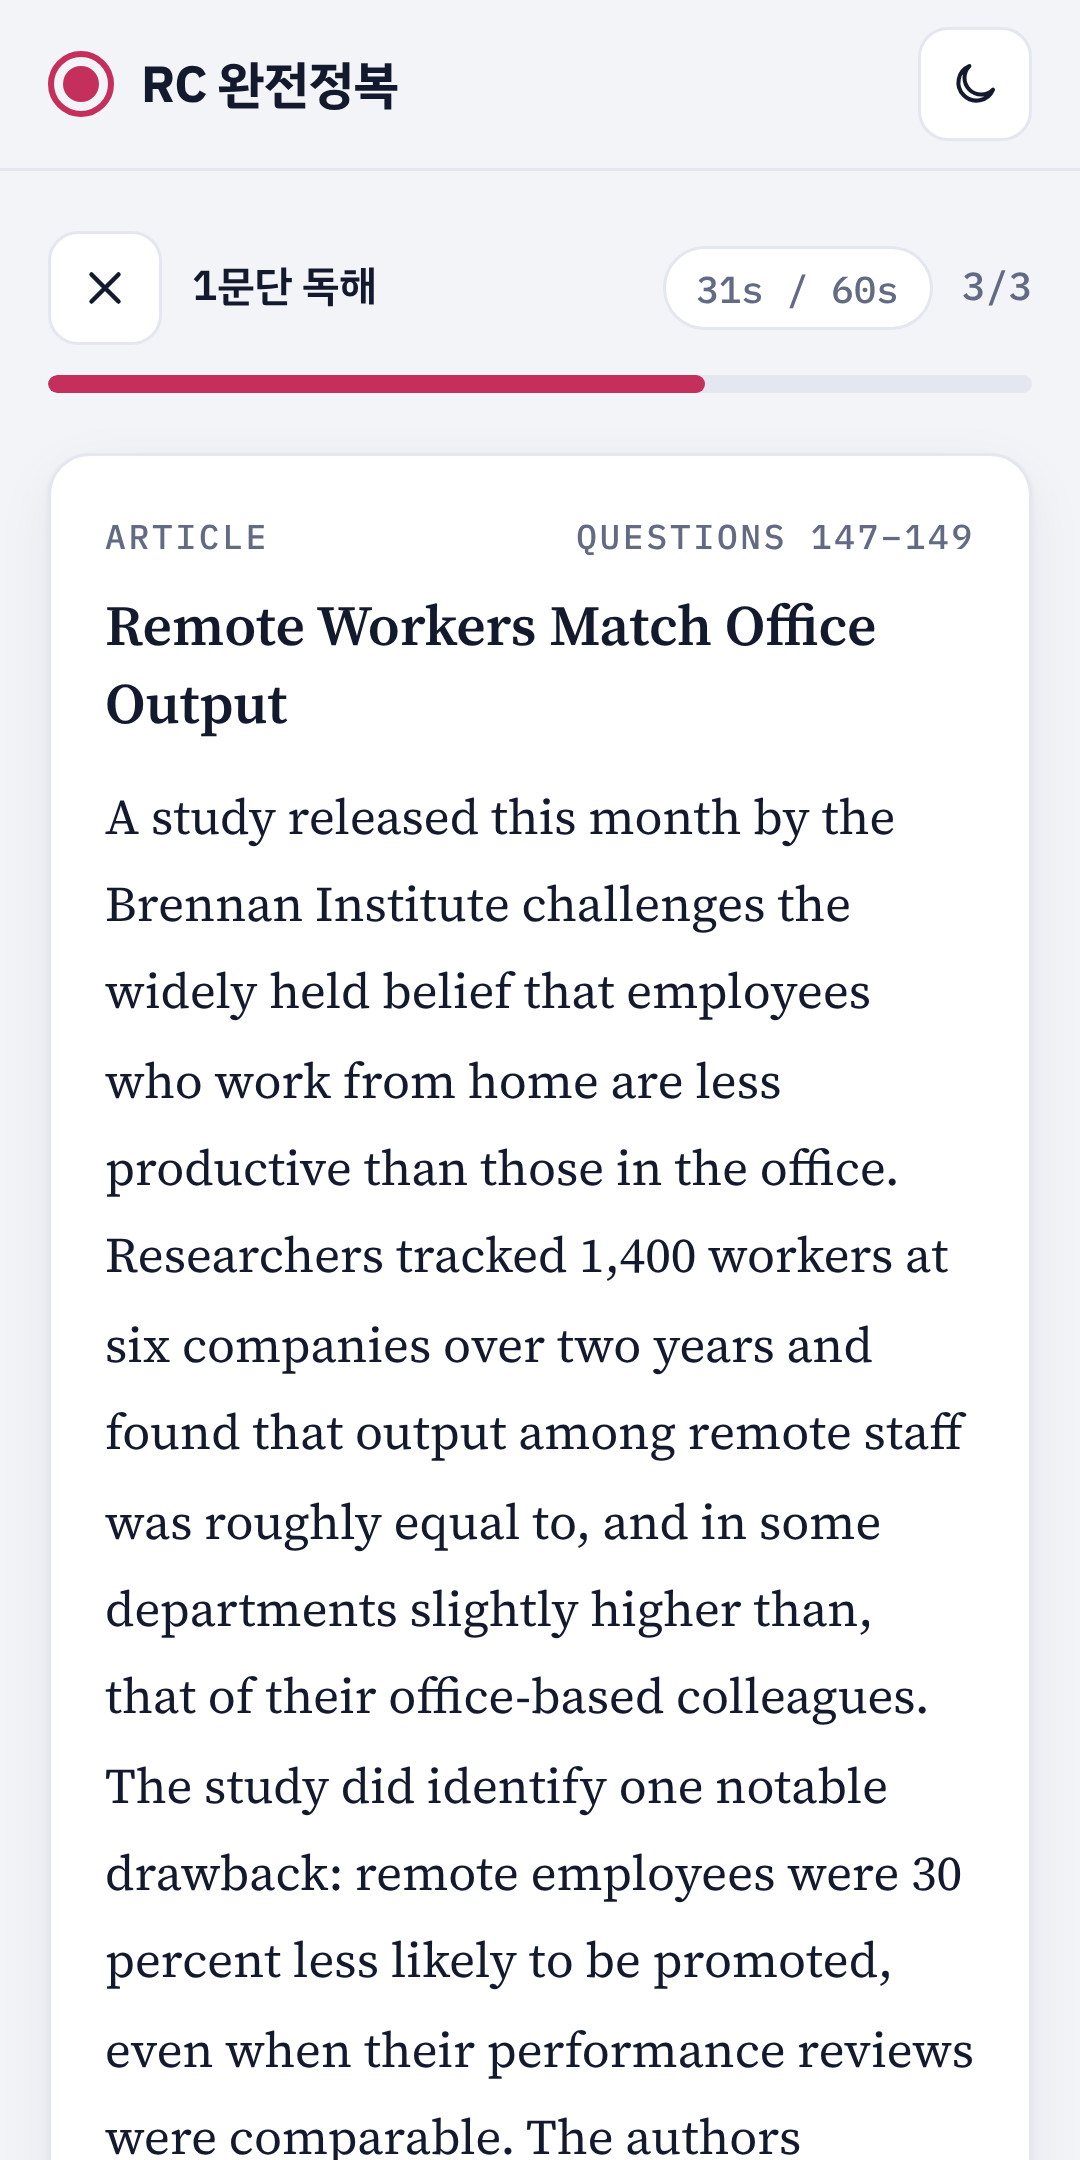
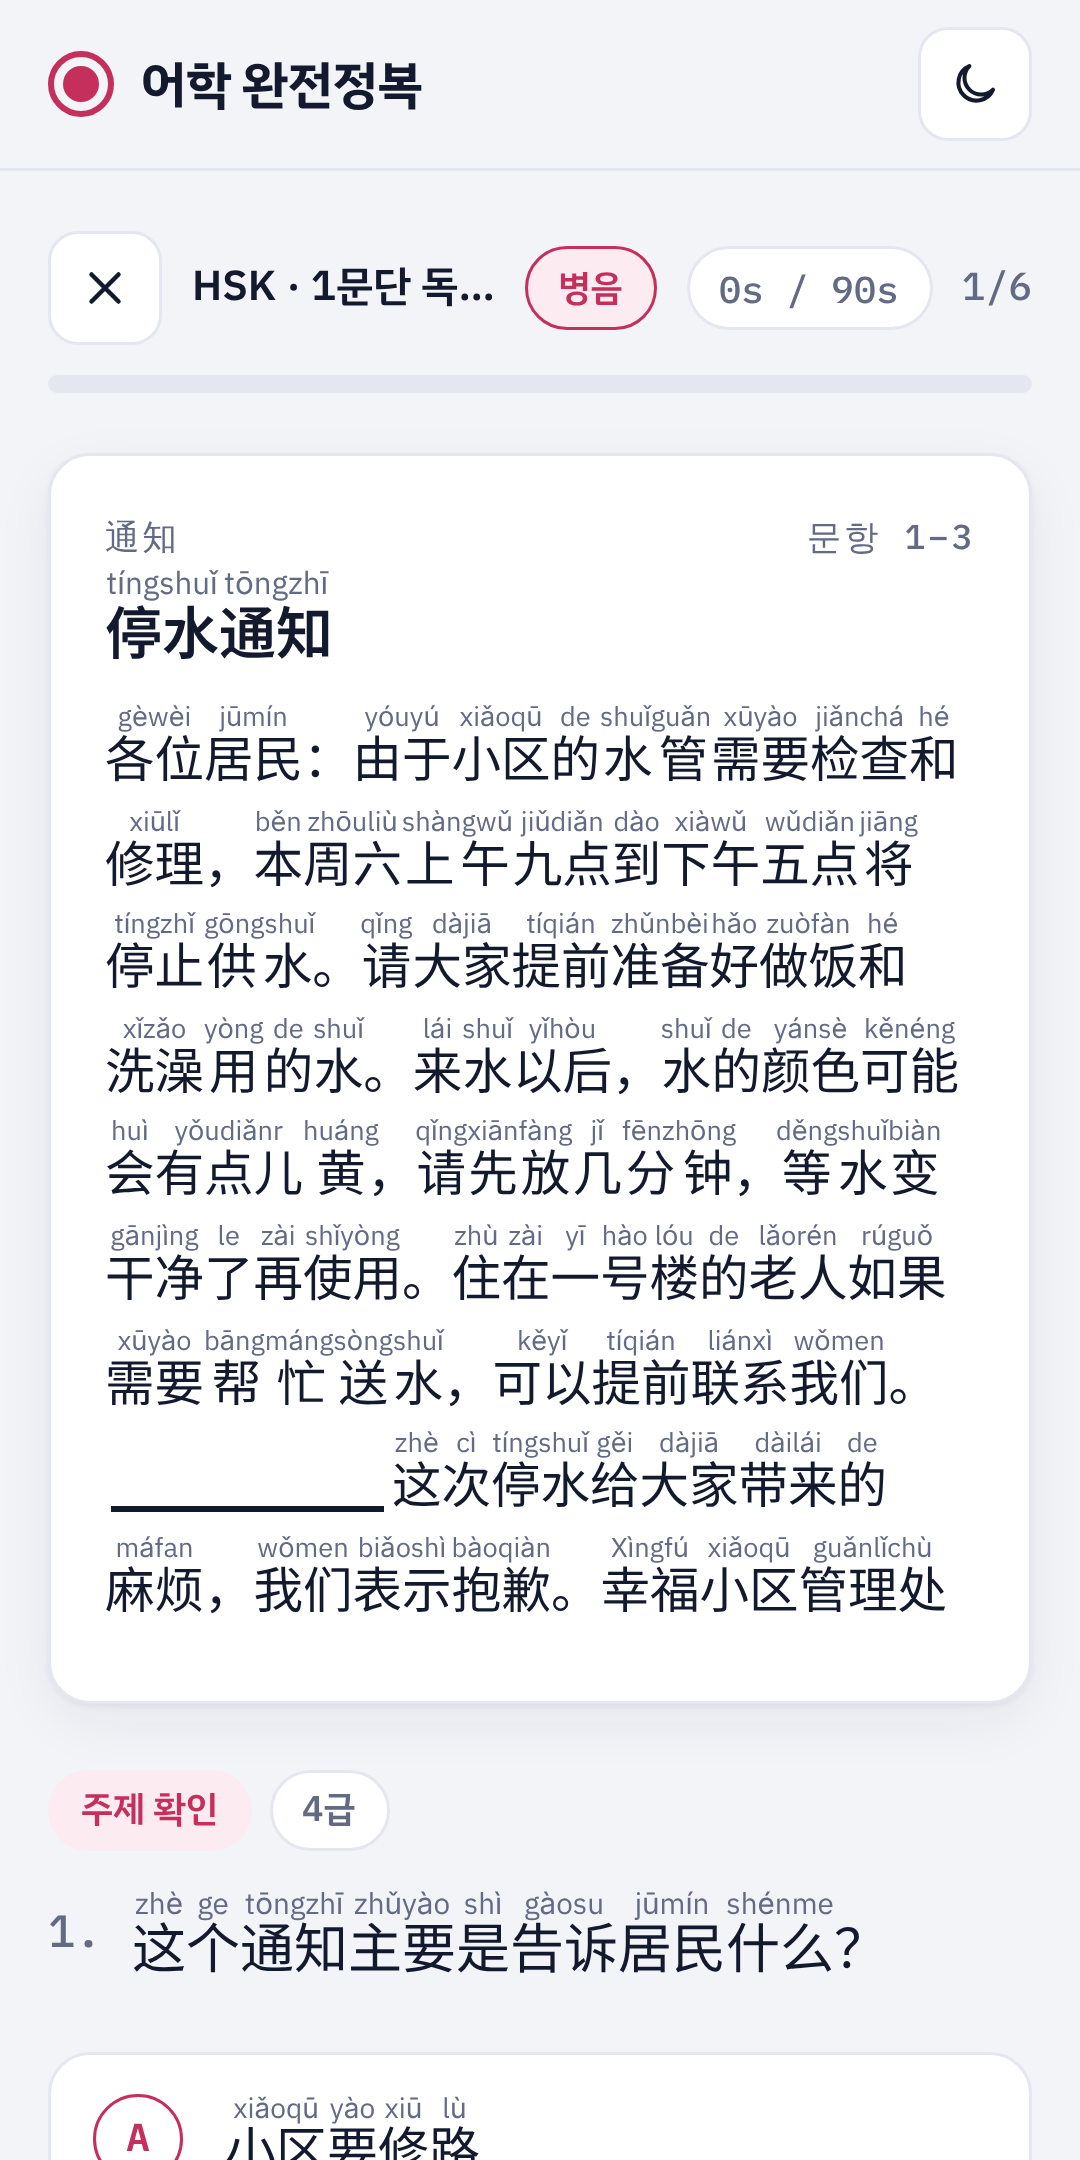
앱 이름을 어학 완전정복으로 바꾸고 스토어 문구·스크린샷 갱신, 버전 2.0
Claude-Session: https://claude.ai/code/session_01Gw3yoMj7LXgzvWXHMvTYHi

diff --git a/public/privacy.html b/public/privacy.html
@@ -1,12 +1,12 @@
 <!doctype html>
 <html lang="ko"><head><meta charset="utf-8"><meta name="viewport" content="width=device-width, initial-scale=1">
-<title>개인정보처리방침 · RC 완전정복</title>
+<title>개인정보처리방침 · 어학 완전정복</title>
 <style>body{margin:0;background:#F3F4F8;color:#141A2E;font:16px/1.7 "Apple SD Gothic Neo","Malgun Gothic",system-ui,sans-serif}main{max-width:680px;margin:0 auto;padding:32px 20px 64px}h1{font-size:24px;margin:0 0 4px}h2{font-size:17px;margin:28px 0 6px}p,li{color:#343a52}.muted{color:#636A84;font-size:14px}</style></head>
 <body><main>
 <h1>개인정보처리방침</h1>
-<p class="muted">RC 완전정복 · 시행일 2026년 10월 20일</p>
+<p class="muted">어학 완전정복 · 시행일 2026년 10월 20일</p>
 <h2>1. 수집하는 개인정보</h2>
-<p>RC 완전정복(이하 "앱")은 이름, 이메일, 전화번호, 위치, 기기 식별자 등 어떠한 개인정보도 수집하지 않습니다. 회원가입과 로그인 기능이 없습니다.</p>
+<p>어학 완전정복(이하 "앱")은 이름, 이메일, 전화번호, 위치, 기기 식별자 등 어떠한 개인정보도 수집하지 않습니다. 회원가입과 로그인 기능이 없습니다.</p>
 <h2>2. 기기에 저장되는 정보</h2>
 <p>문제 풀이 기록, 오답 목록, 선택한 난이도와 화면 테마는 사용자의 기기 안에만 저장되며 외부 서버로 전송되지 않습니다. 앱을 삭제하거나 앱 안의 "기록 초기화"를 누르면 모두 지워집니다.</p>
 <h2>3. 제3자 제공 및 광고</h2>

diff --git a/public/404.html b/public/404.html
@@ -1,1 +1,1 @@
-<!doctype html><meta charset="utf-8"><meta http-equiv="refresh" content="0; url=./"><title>RC 완전정복</title>
+<!doctype html><meta charset="utf-8"><meta http-equiv="refresh" content="0; url=./"><title>어학 완전정복</title>

diff --git a/README.md b/README.md
@@ -1,6 +1,10 @@
-# RC 완전정복
+# 어학 완전정복
 
-토익 RC 연습 앱: Part 5 문법 105·어휘 106문항, Part 6 장문 빈칸 12지문(48문항), Part 7 독해 30지문(90문항), 빈출 단어 퀴즈 308개.
+TOEIC RC · JLPT · HSK 시험 연습 앱. 첫 화면에서 시험을 고른다.
+
+- TOEIC RC: Part 5 문법 105·어휘 106문항, Part 6 장문 빈칸 12지문(48문항), Part 7 독해 30지문(90문항), 빈출 단어 310개
+- JLPT N3·N2, HSK 3·4급: 시험마다 단어 200·문장 120문항, 1문단 독해 30지문, 단어장 620개
+- 단어장 카드와 단어장 퀴즈, 오답노트, 약한 유형 집중, CSV로 문제 추가, 후리가나·병음 켜고 끄기
 하나의 코드로 웹, 안드로이드, iOS 앱을 만든다([Capacitor](https://capacitorjs.com) 8).
 
 ## 폴더 구조
@@ -8,7 +12,9 @@
 | 경로 | 내용 |
 | --- | --- |
 | `src/shell.html` | 화면과 동작(HTML, CSS, JS) |
-| `src/data.js` | 문제 은행. 문제를 고치거나 추가할 때는 이 파일만 수정 |
+| `src/data.js` | TOEIC 문제 은행(Part 5·6·7) |
+| `src/data/*.json` | JLPT·HSK 문제(words / sentences / passages, 보기 첫 번째가 정답, 루비는 `漢字{かんじ}`). 파일 이름 앞부분이 시험 |
+| `src/vocab/*.json` | 단어장(단어 카드 + 단어장 퀴즈). 파일 이름 앞부분이 시험 |
 | `public/` | 아이콘, 웹 매니페스트, 오프라인 캐시(`sw.js`), 개인정보처리방침 |
 | `tools/build.mjs` | `src` + `public`을 합쳐 `web/`(웹 배포본)과 `www/`(앱에 들어갈 파일)를 만든다 |
 | `android/`, `ios/` | 네이티브 프로젝트(Android Studio, Xcode로 연다) |
